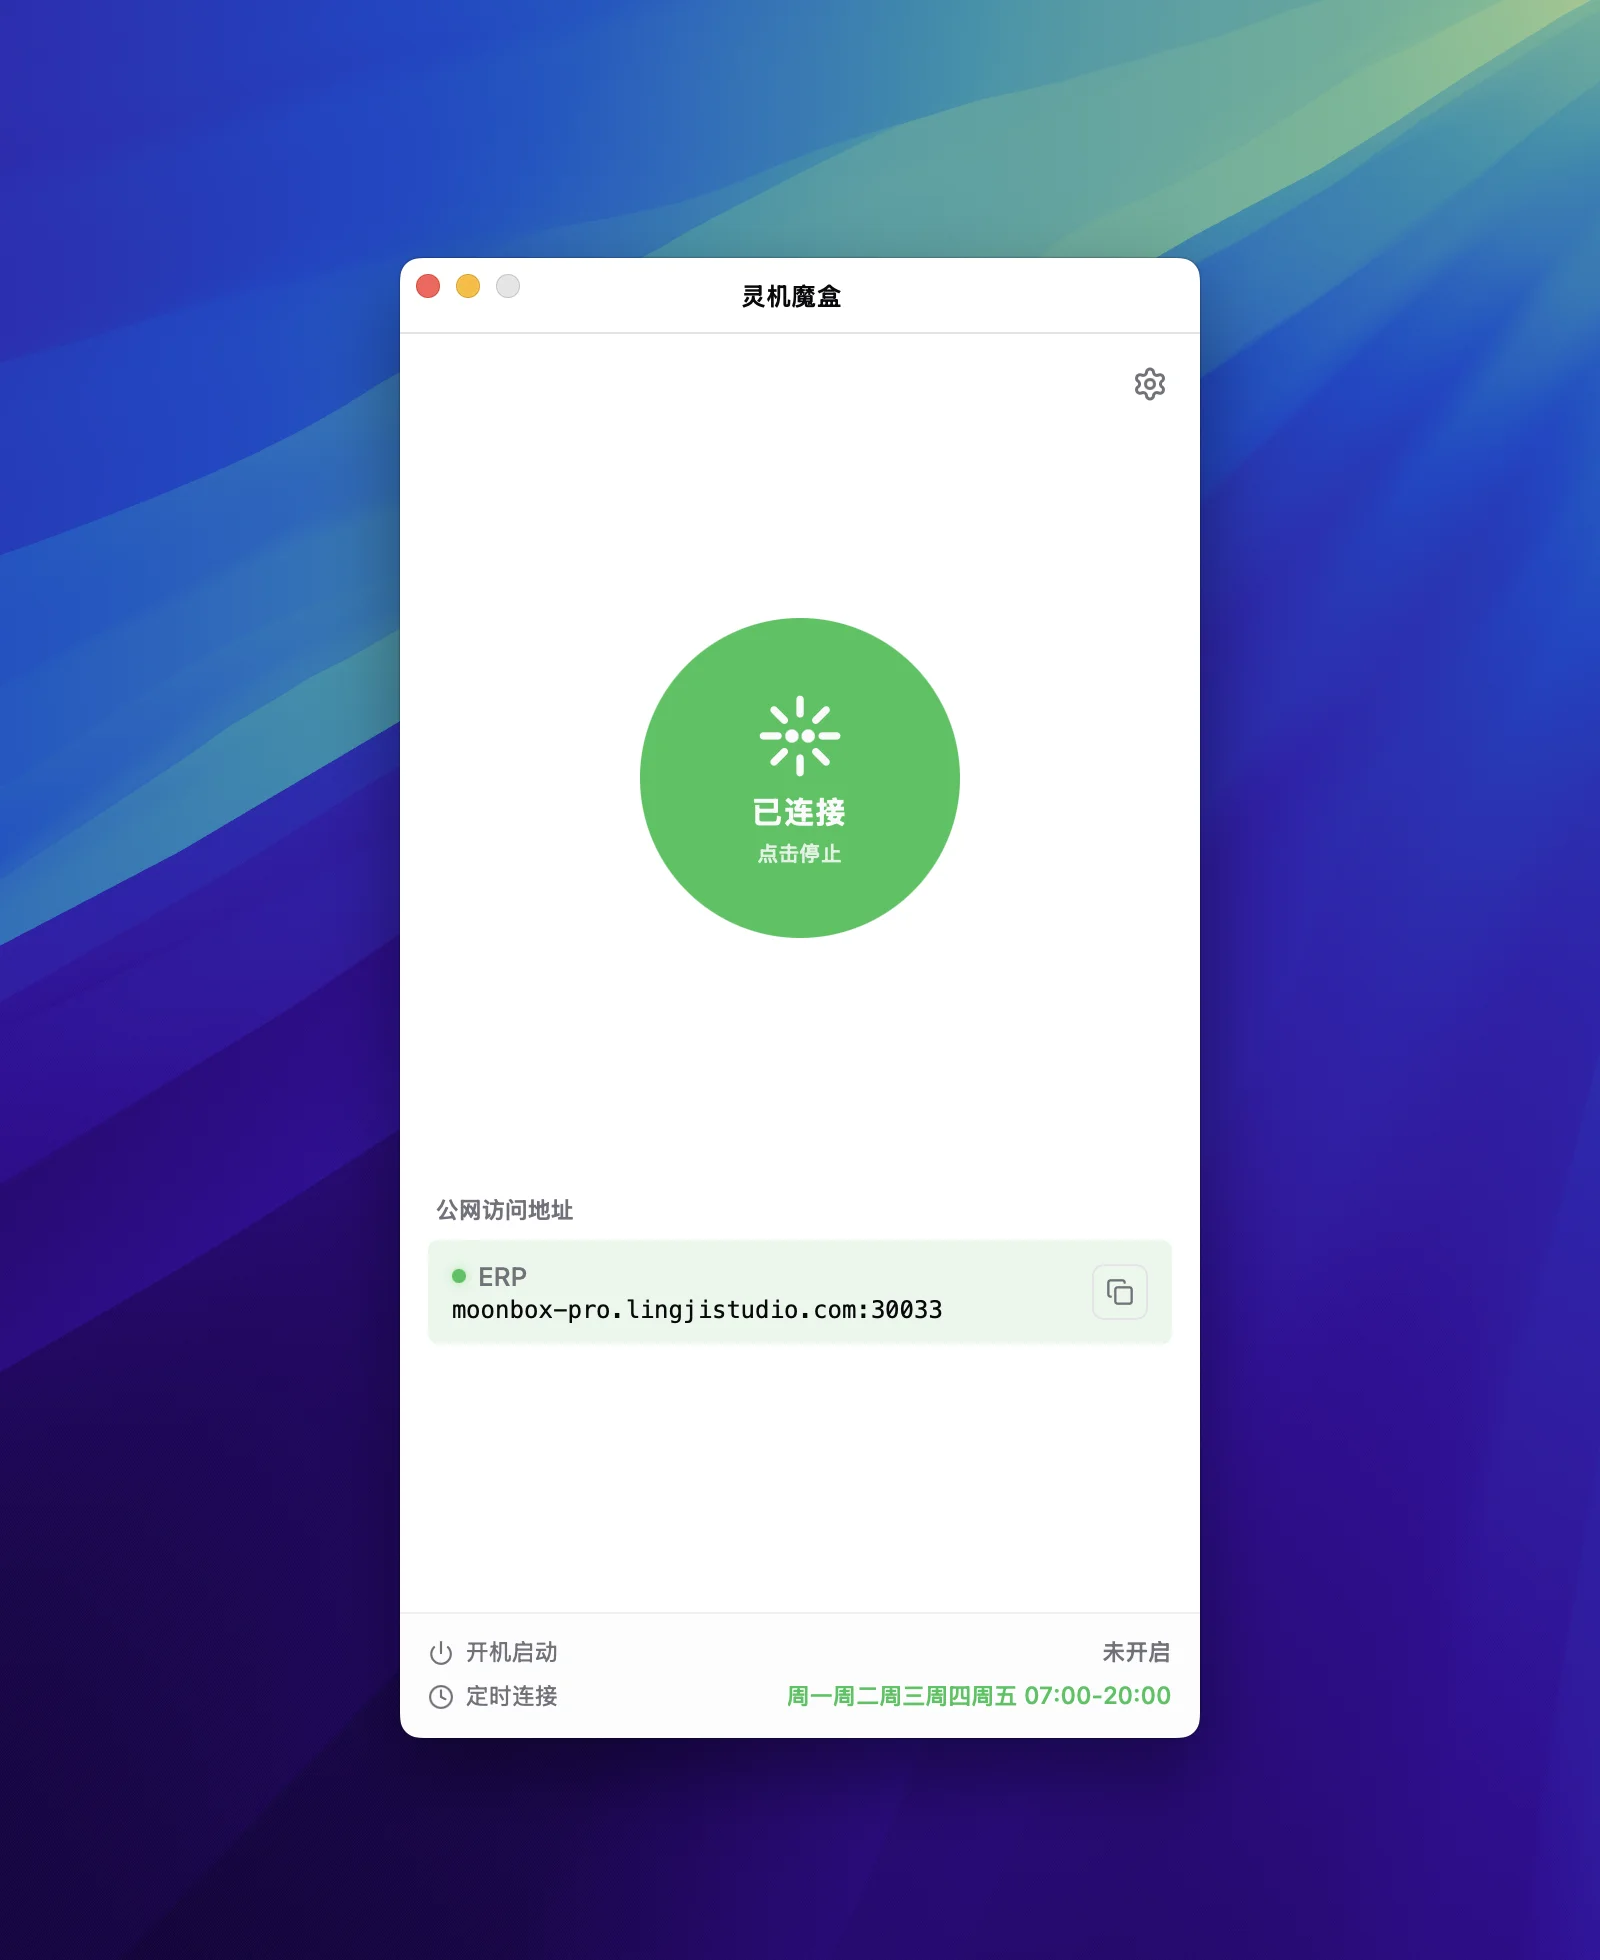
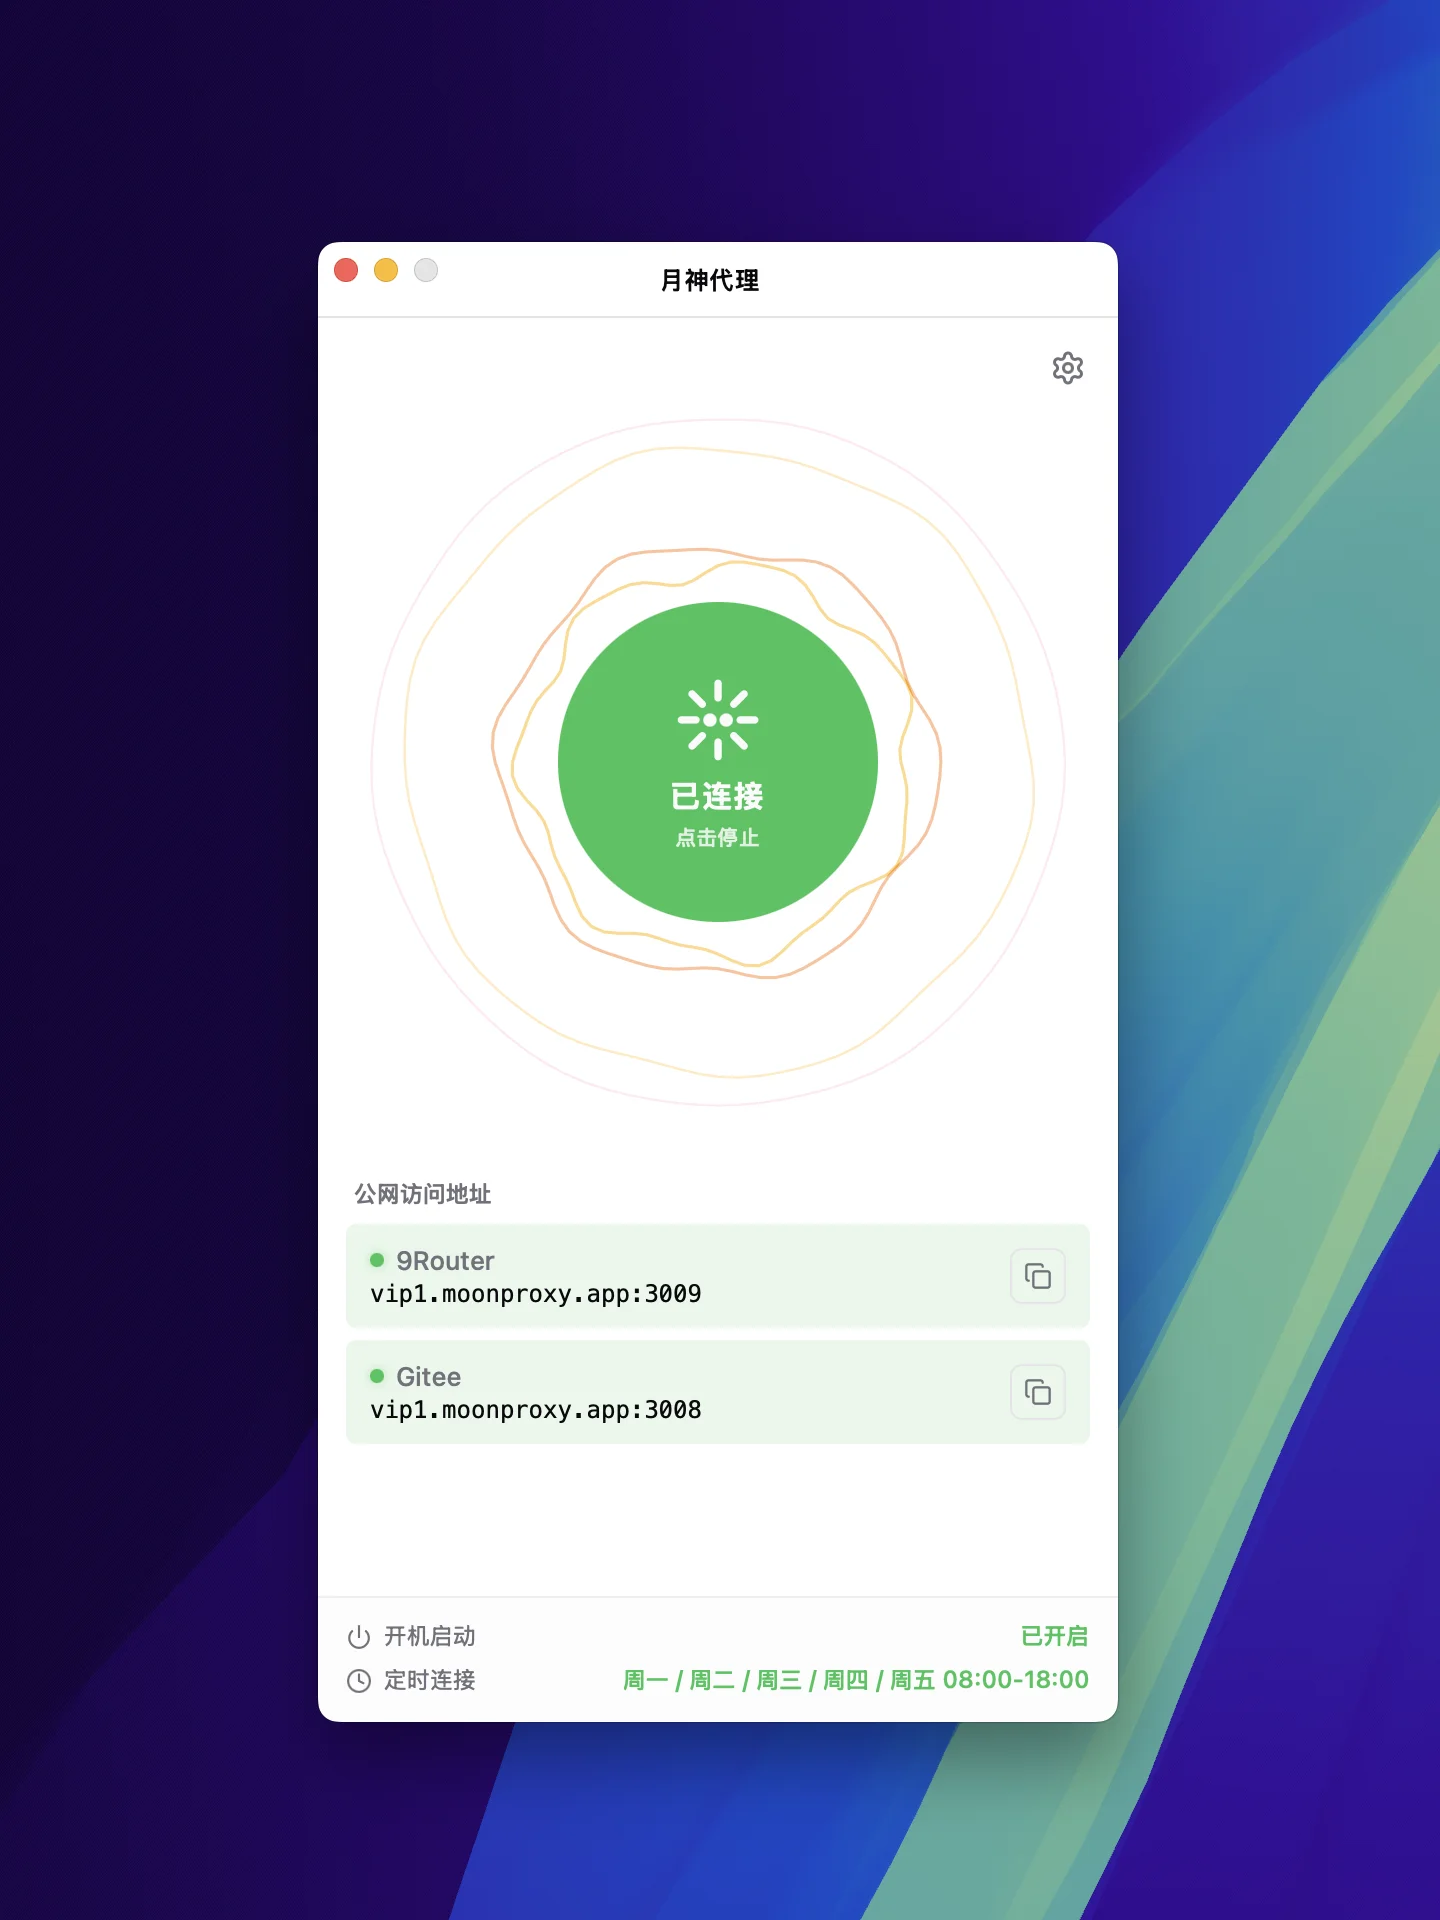
docs(readme): Hero 图改回 WebP 并替换为新品牌 UI
上一版（bdfb79d）换成 GIF 后发现体积偏大（~800KB），改回 WebP
格式（PNG→cwebp q=85），单张 ~85KB。
源 PNG（main-zh.png / main-en.png）为本地中间产物，不入库。
中英 README 各自对接 main-zh.webp / main-en.webp。

diff --git a/README.en.md b/README.en.md
@@ -24,7 +24,7 @@
 
 ---
 
-![MoonProxy main UI: 4-state circular status button + public access URL + endpoint health indicators](./screenshots/main-mv.gif)
+![MoonProxy main UI: 4-state circular status button + public access URL + endpoint health indicators](./screenshots/main-en.webp)
 
 A friendly **desktop GUI for [frp](https://github.com/fatedier/frp)** — the reverse-proxy / NAT-traversal tool.
 You bring your own frps server (self-hosted or any community frps you trust) — MoonProxy

diff --git a/README.md b/README.md
@@ -24,7 +24,7 @@
 
 ---
 
-![MoonProxy 主界面：4 态圆形状态按钮 + 公网访问地址 + 端点健康指示](./screenshots/main-mv.gif)
+![MoonProxy 主界面：4 态圆形状态按钮 + 公网访问地址 + 端点健康指示](./screenshots/main-zh.webp)
 
 面向非技术用户的 **[frp](https://github.com/fatedier/frp) 桌面 GUI 客户端**。
 你只需要提供一台运行了 frps 的服务器（自建或社区公开均可），剩下的交给 MoonProxy：